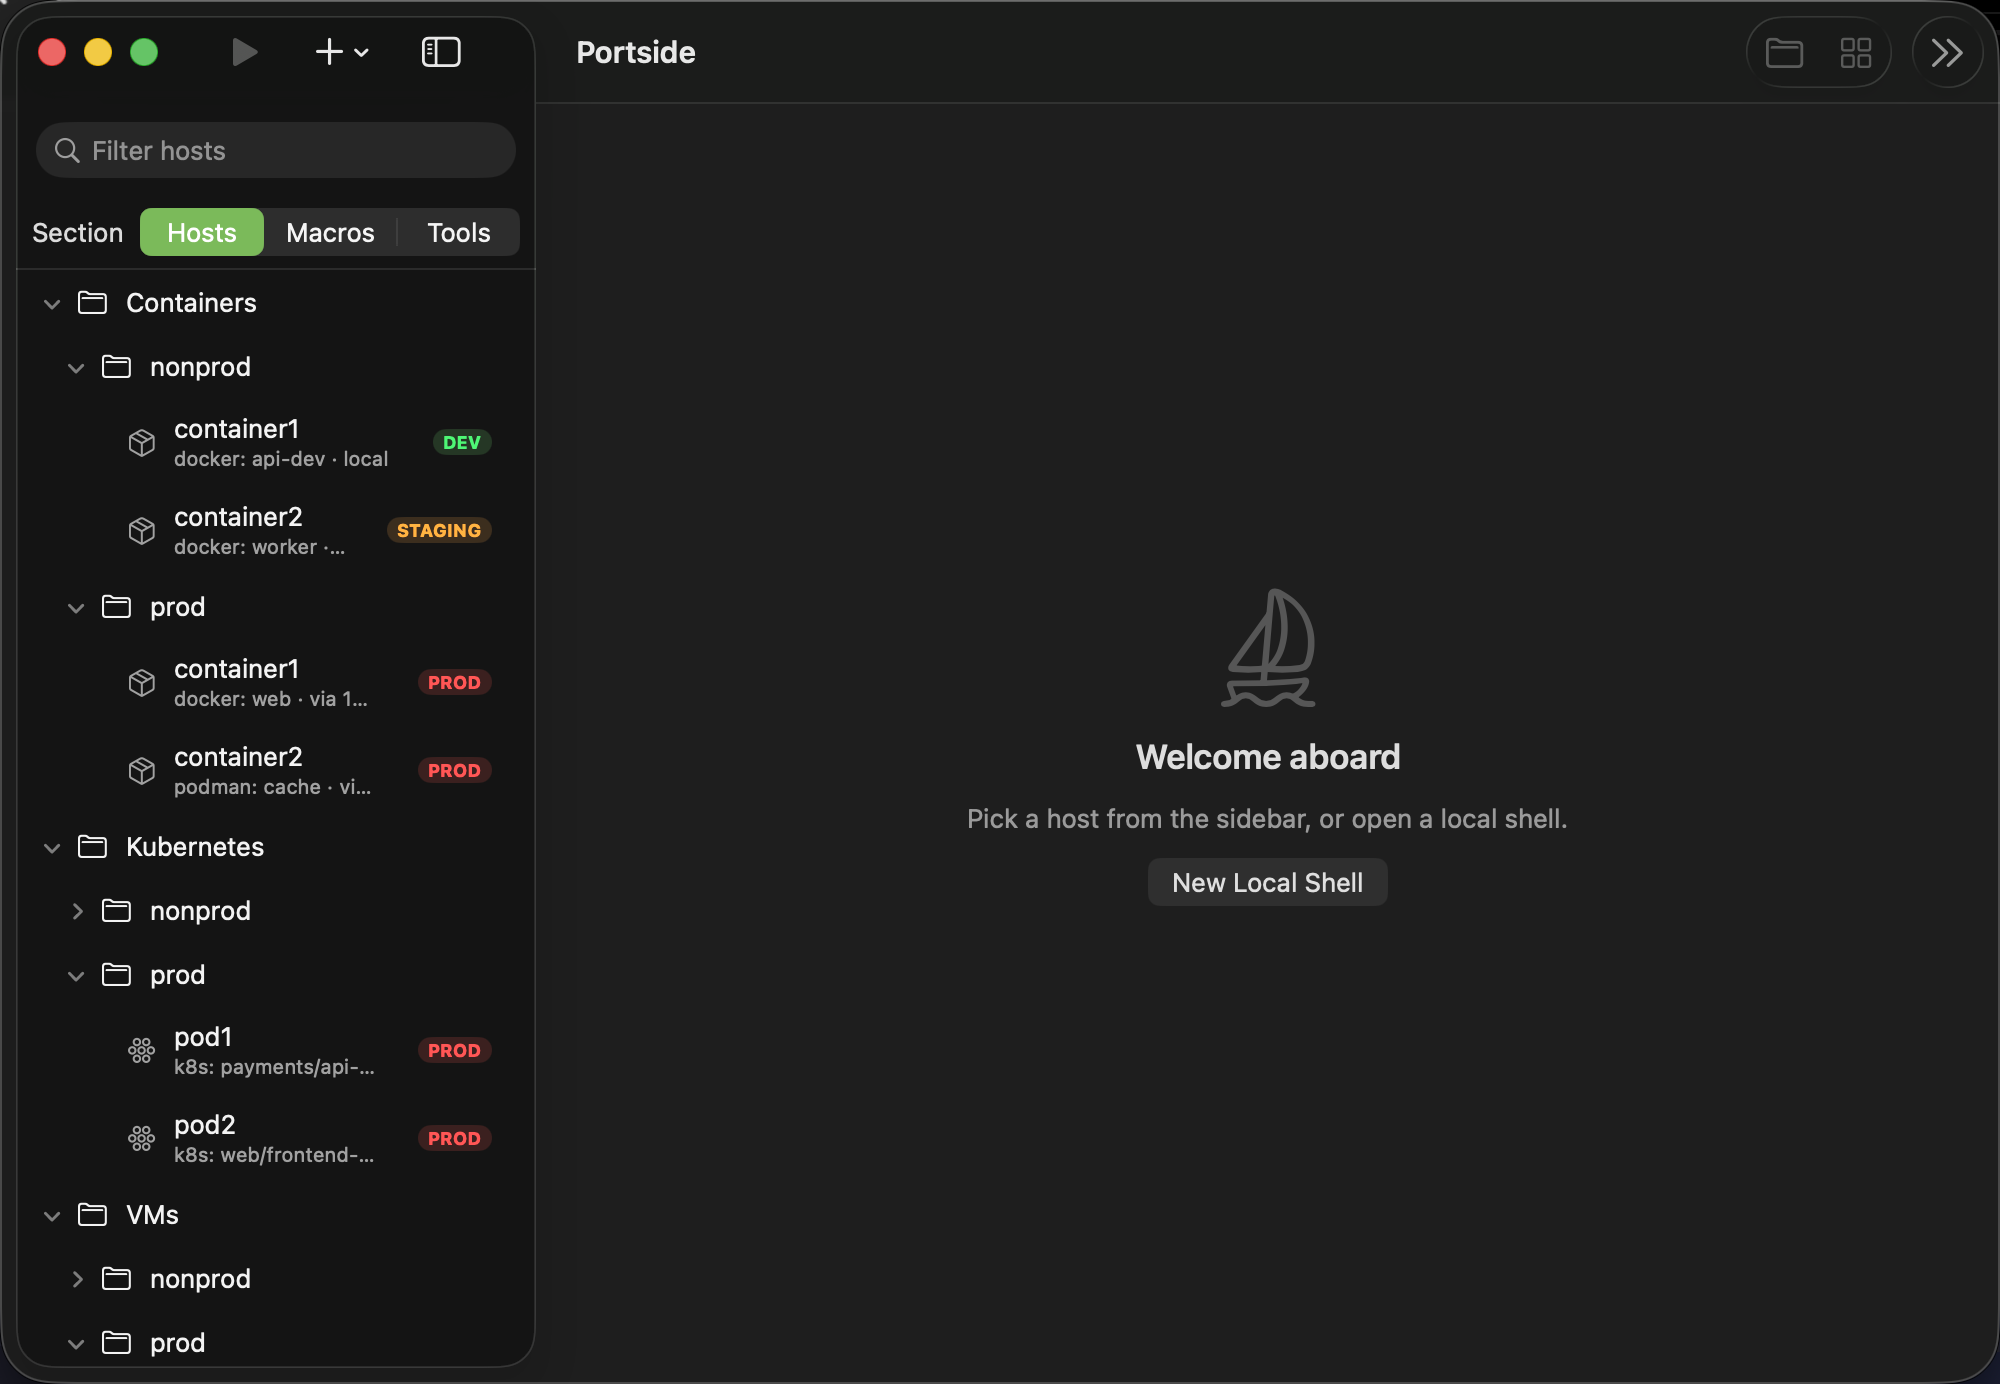
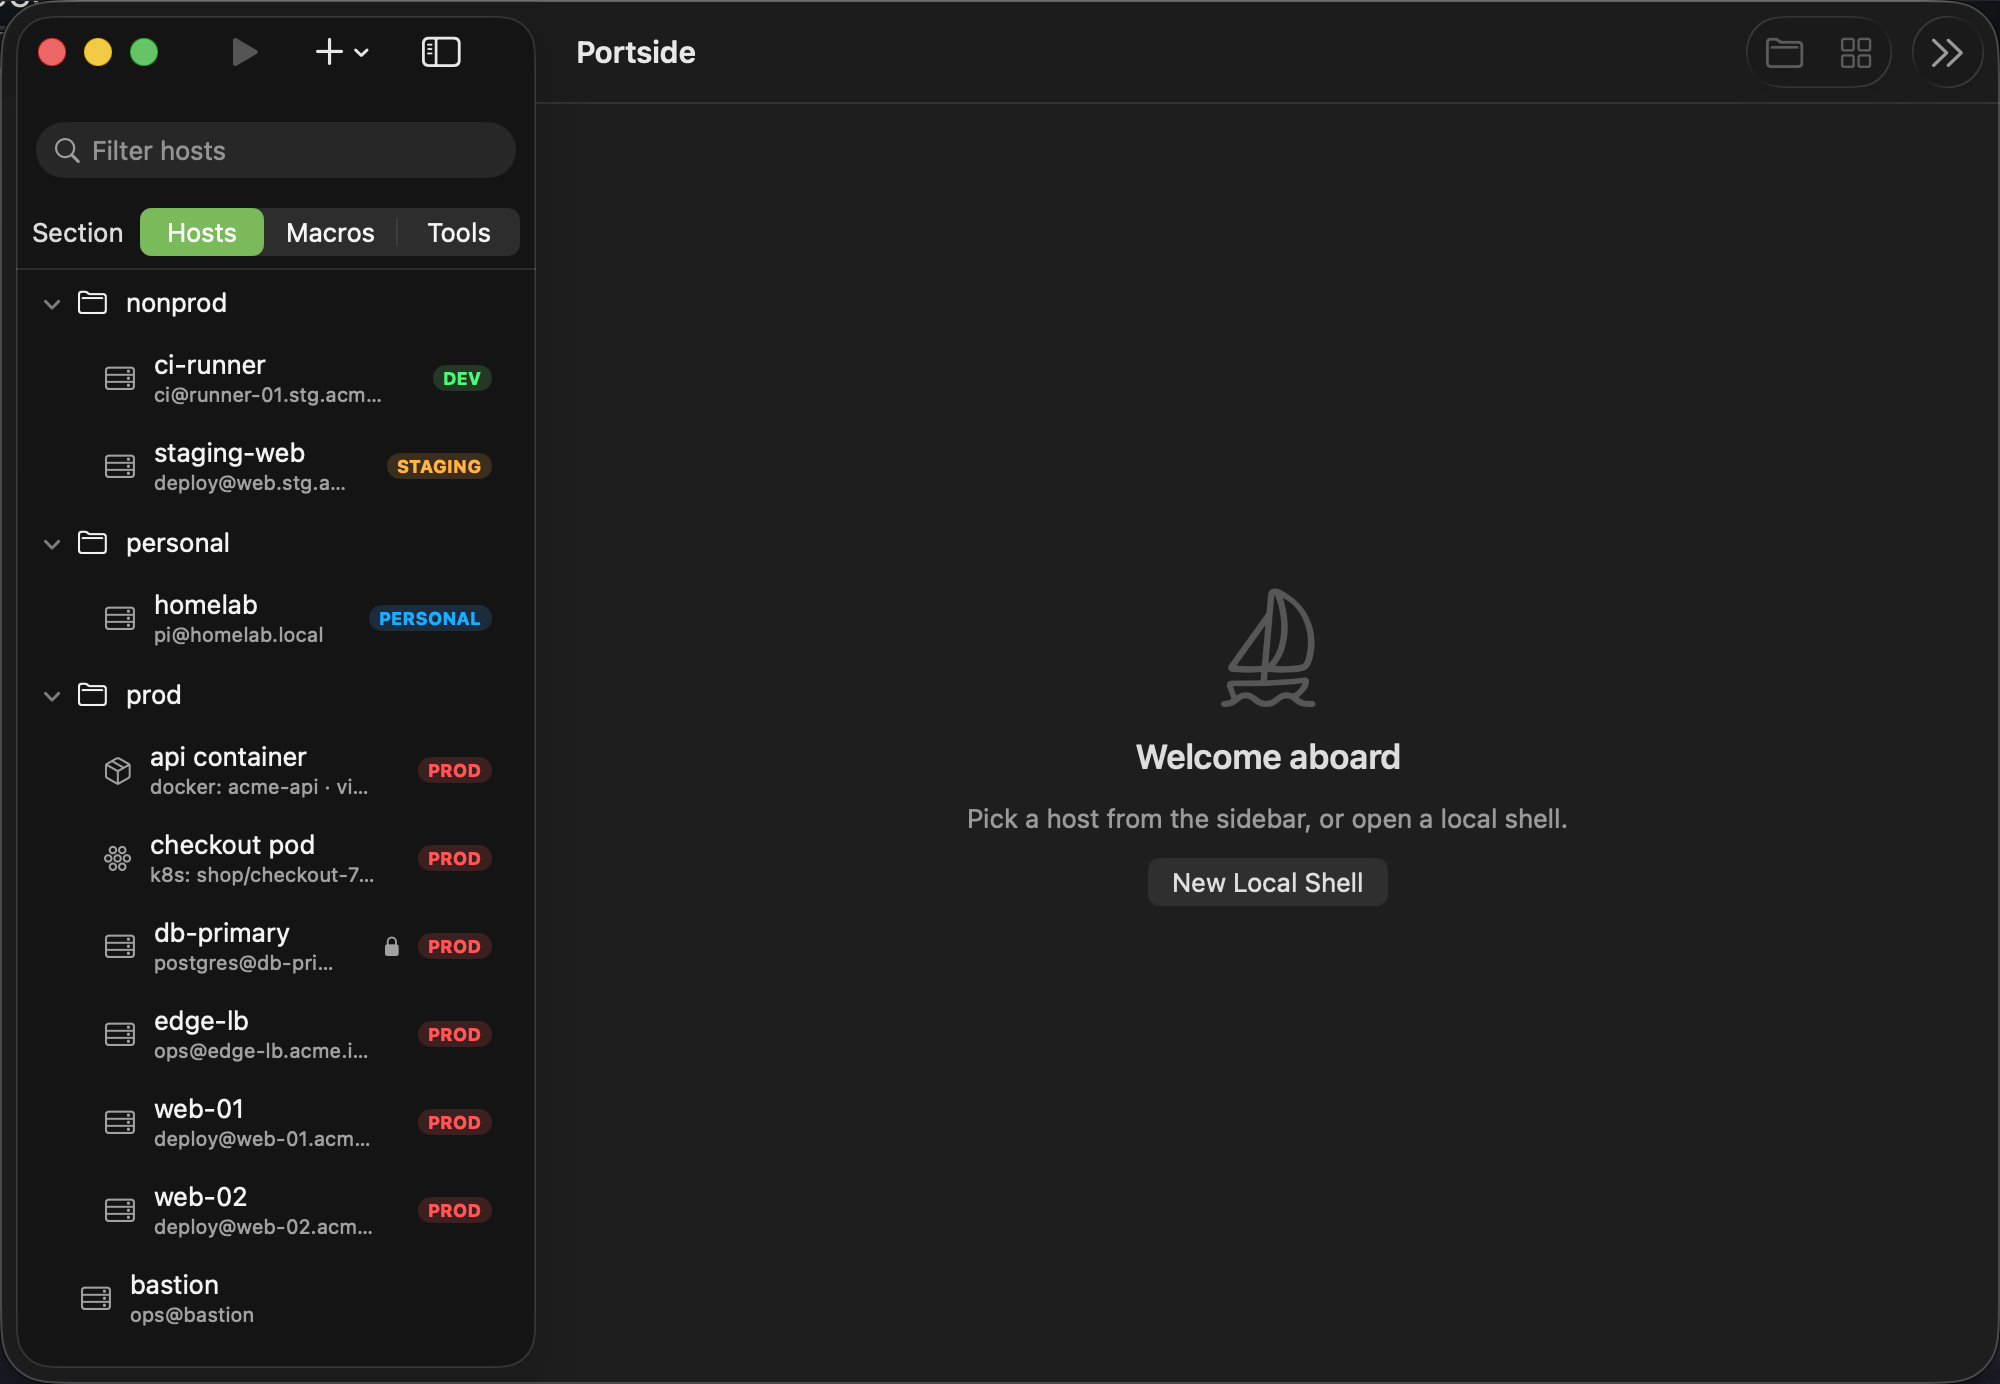
Refresh screenshots with demo library; fix settings height; anonymize previews
- New shots: library (fresh demo data), appearance pane with highlighted
  preview, theme gallery (Synthwave Alpha), font gallery (0xProto).
- Settings window grew (min 700 / ideal 780) so the preview no longer
  clips at the bottom.
- Preview sample text now says user@portside instead of tim@portside.
- Scripts/demo/portside-demo.json: full portside.json demo fixture
  (acme.internal hosts, container, k8s pod) for screenshot sessions.

Claude-Session: https://claude.ai/code/session_01HytqTbHLQATziBq2buLNyL

diff --git a/Sources/Portside/Views/AppearanceSettingsView.swift b/Sources/Portside/Views/AppearanceSettingsView.swift
@@ -95,7 +95,7 @@ struct AppearanceSettingsView: View {
             }
         }
         .formStyle(.grouped)
-        .frame(minWidth: 460, idealWidth: 480, minHeight: 560, idealHeight: 640)
+        .frame(minWidth: 460, idealWidth: 480, minHeight: 700, idealHeight: 780)
         .sheet(isPresented: $showingGallery) {
             ThemeGalleryView().environmentObject(store)
         }

diff --git a/Sources/Portside/Views/FontGalleryView.swift b/Sources/Portside/Views/FontGalleryView.swift
@@ -136,7 +136,7 @@ struct FontGalleryView: View {
 
     private func fontSample(family: String) -> some View {
         VStack(alignment: .leading, spacing: 2) {
-            Text("tim@portside:~$ echo ahoy")
+            Text("user@portside:~$ echo ahoy")
             Text("0123456789 !=> -> ~ {} []")
             Text("The quick brown fox jumps over the lazy dog")
         }

diff --git a/Sources/Portside/Views/TerminalPreviewView.swift b/Sources/Portside/Views/TerminalPreviewView.swift
@@ -30,7 +30,7 @@ struct TerminalPreviewView: View {
     // Text concatenation needs `foregroundColor` (returns Text), not
     // `foregroundStyle` (returns some View).
     private var promptLine: Text {
-        Text("tim@portside").foregroundColor(ansi(10))
+        Text("user@portside").foregroundColor(ansi(10))
             + Text(":")
             + Text("~/deploy").foregroundColor(ansi(12)).bold()
             + Text("$ cat main.swift")